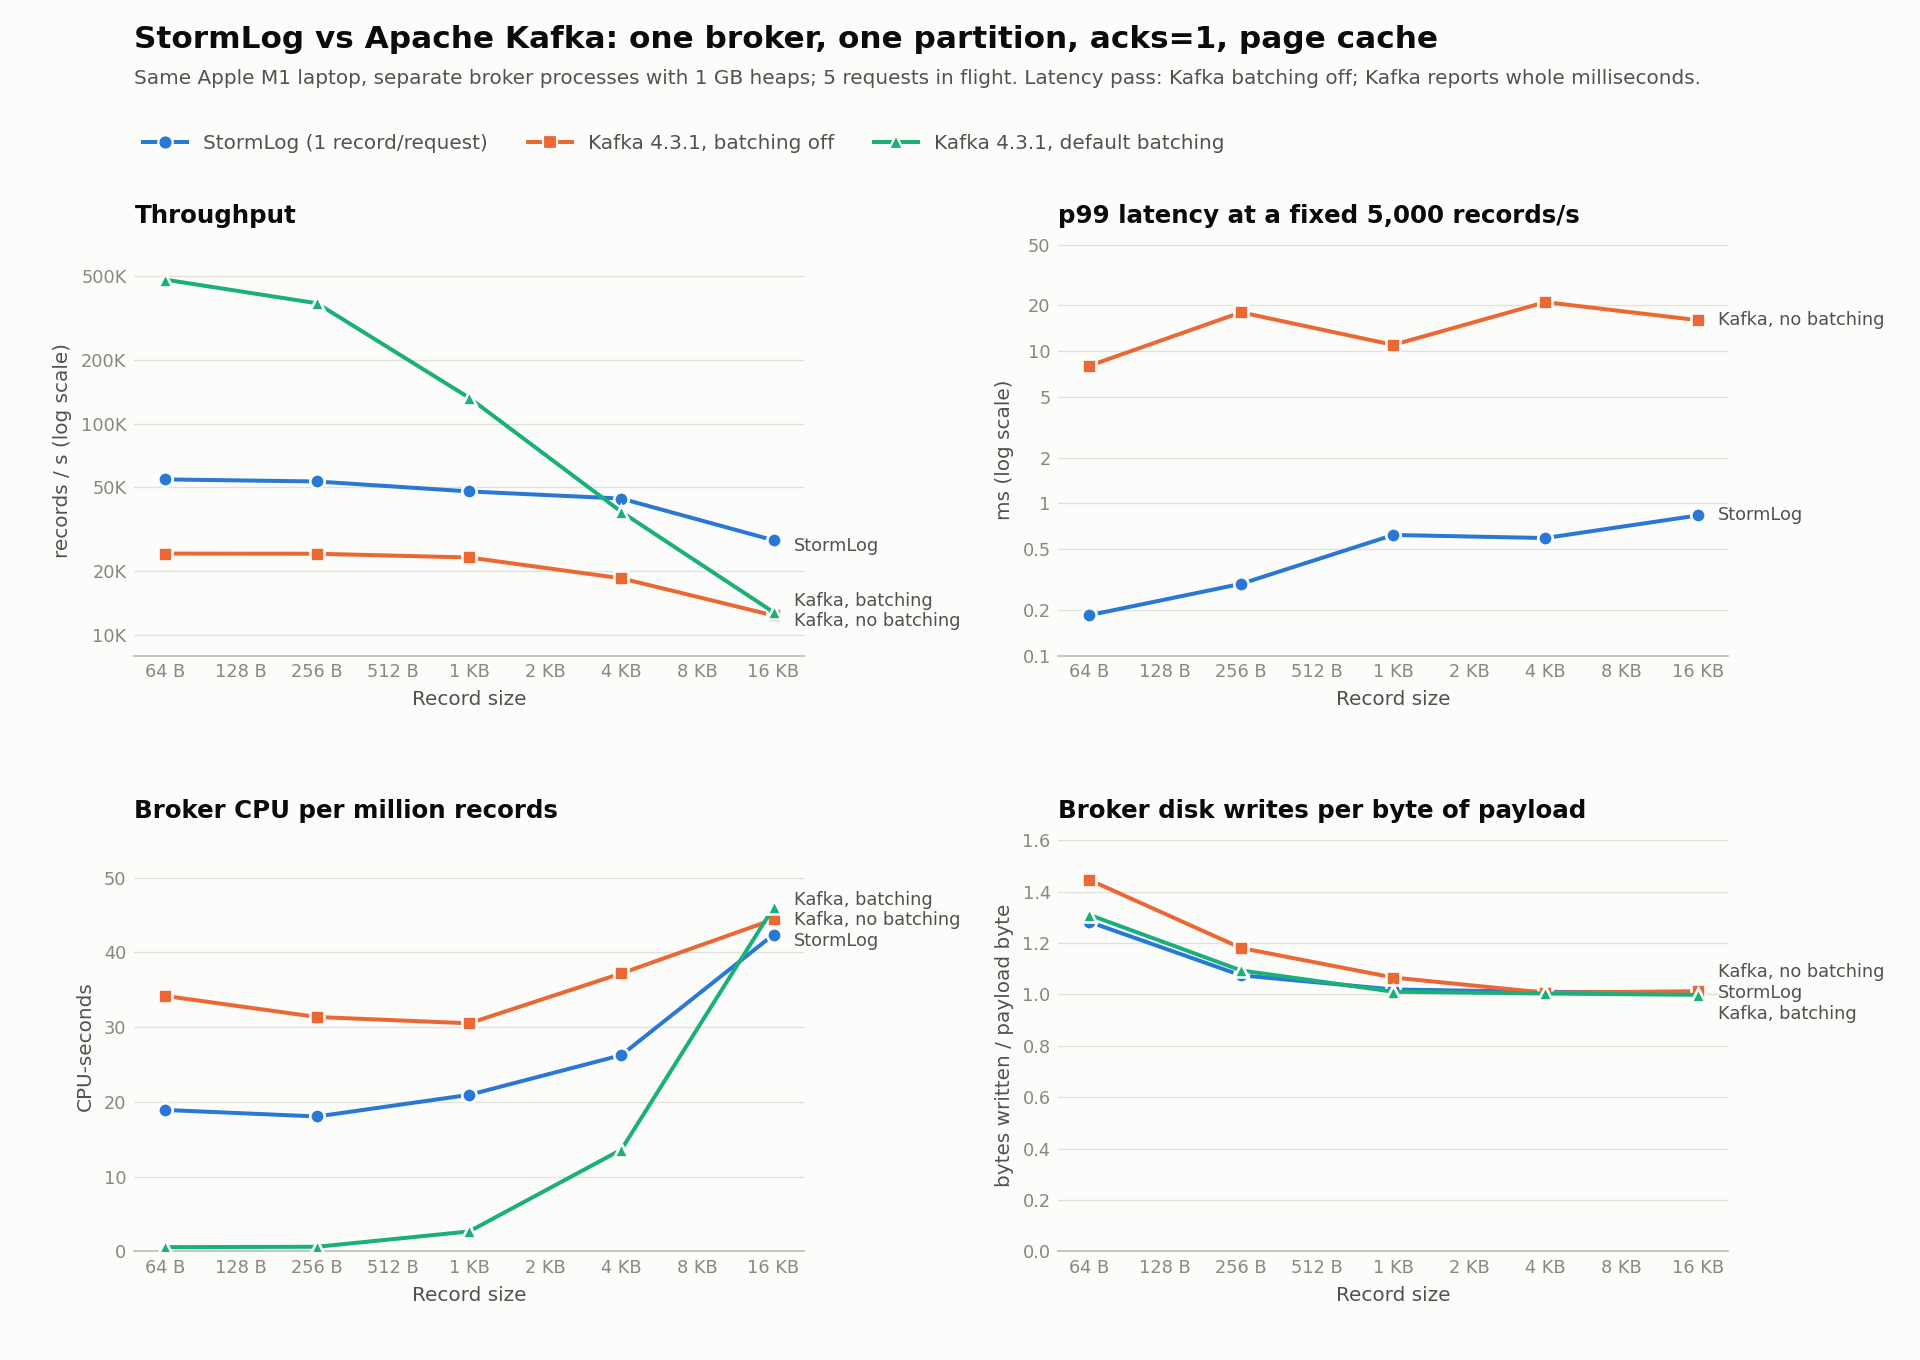
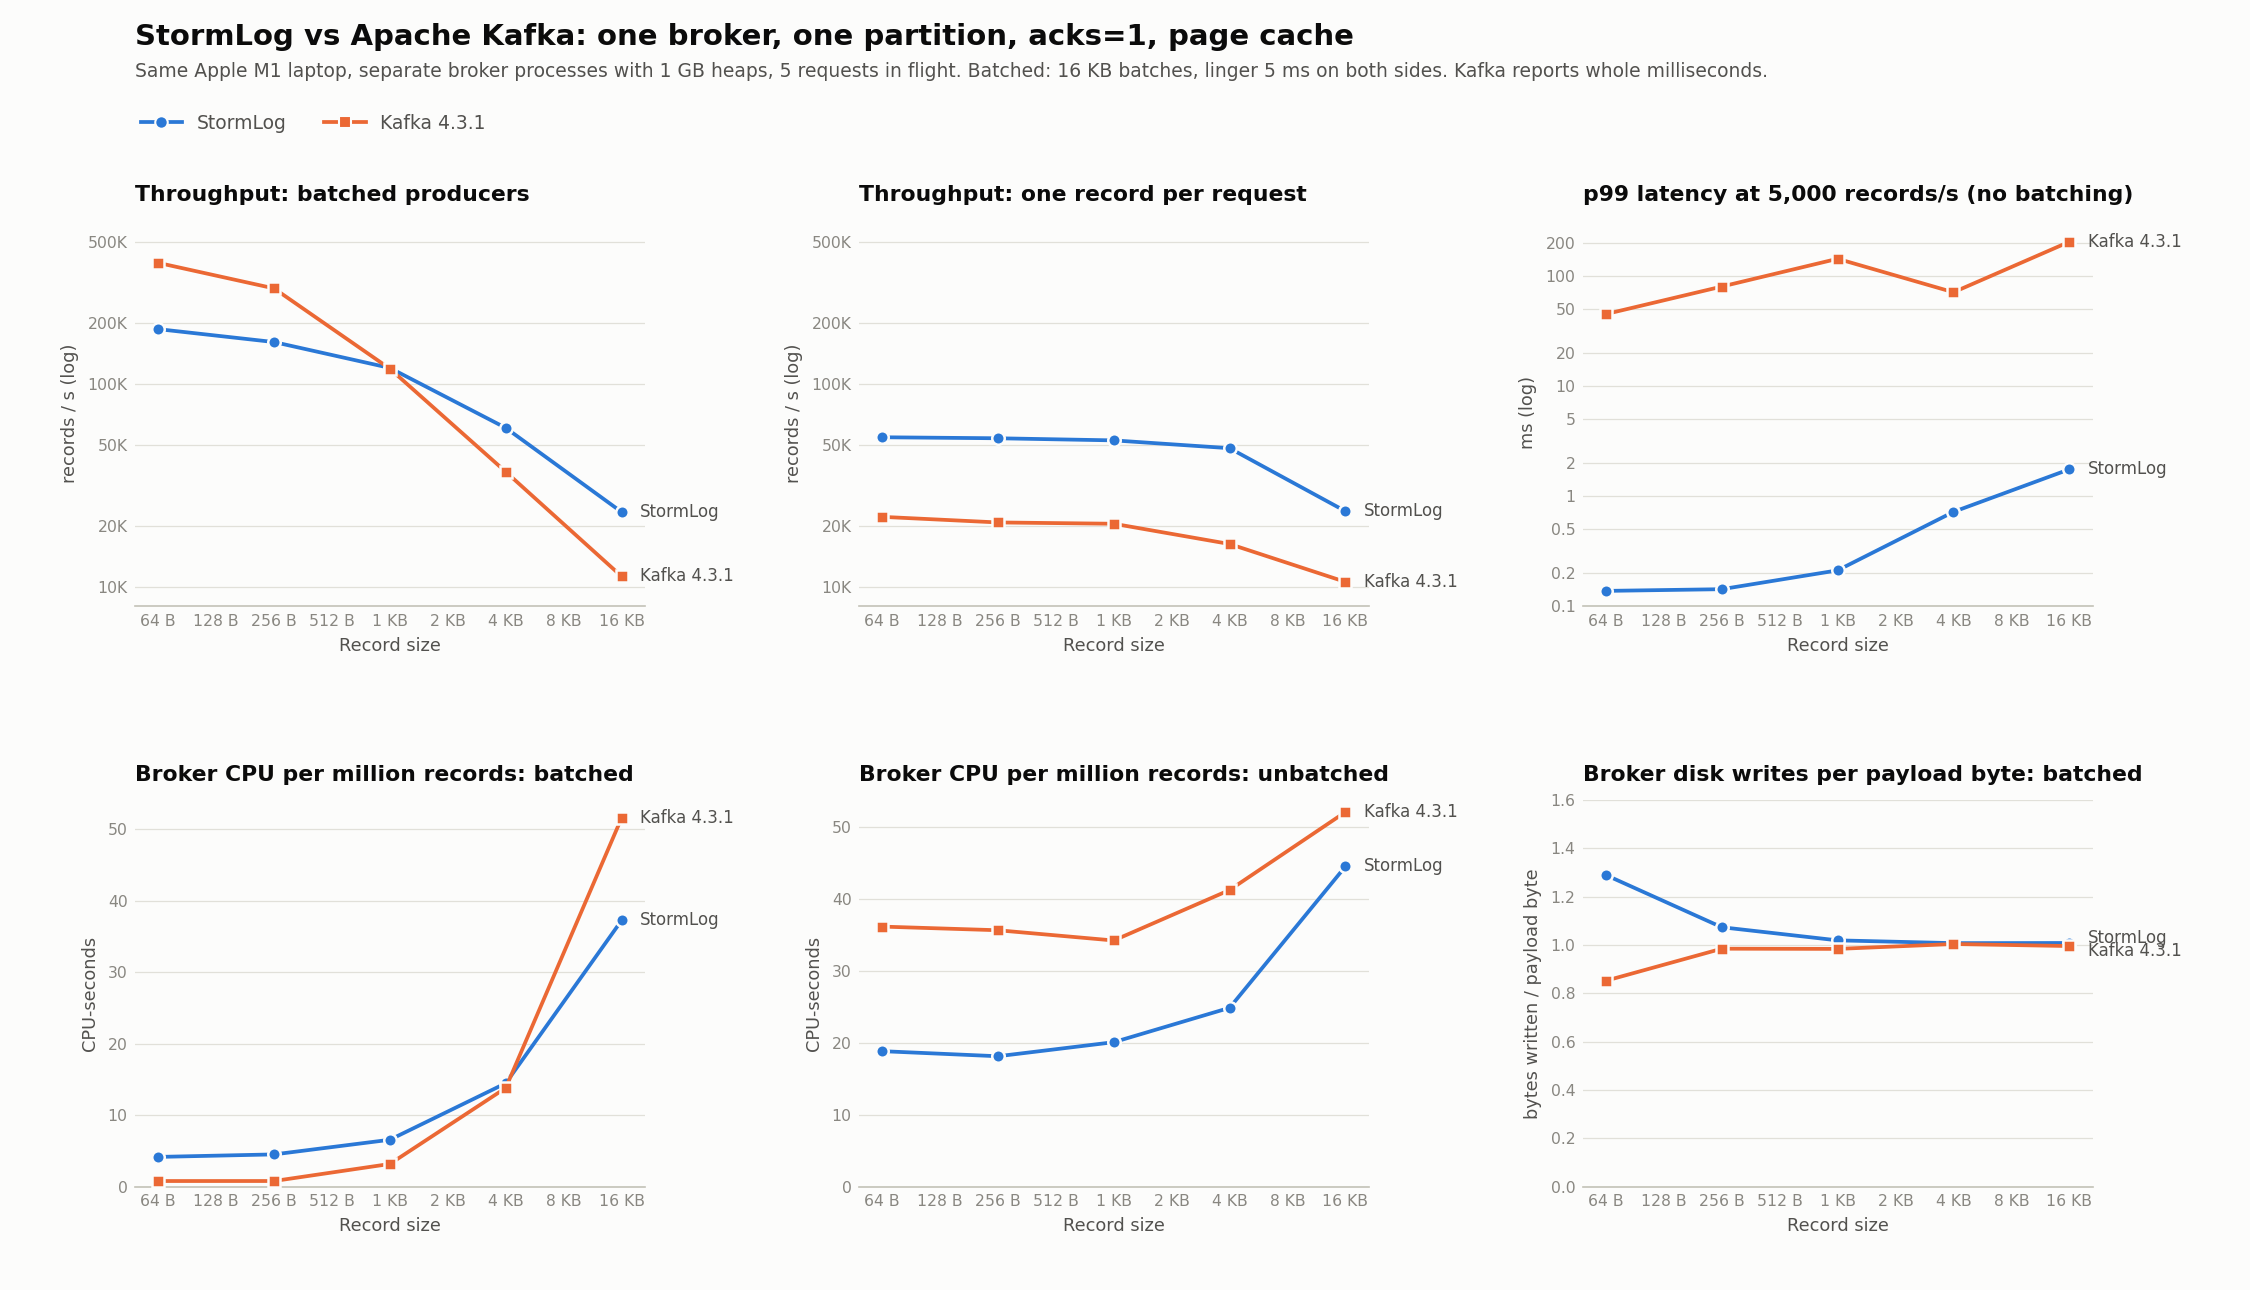
9s broker session timeout; leader-aware perf tool; benchmarks with batching
- Broker session timeout 9s (Kafka's broker.session.timeout.ms default):
  3s fenced healthy brokers when heartbeats failed during a metadata
  leader election at startup (found by the replication benchmark, where
  every request then hit NOT_LEADER). Tests keep 3s via a property.
- StormLogPerf connects to the partition leader from metadata;
  bench-replication fails the run if any request errors.
- Remove duplicate dependency declarations from the pom.

Results (docs/bench, README):
- Batched vs batched against Kafka 4.3.1: Kafka 2.1x at 64 B (was 9x
  before batching), even at 1 KB, StormLog 1.6-2.1x at 4-16 KB.
- RF=3 acks=all: 4.4K rec/s one record per request, 20.1K rec/s with the
  batching producer; p99 2.3 ms below saturation.
Chart restructured into per-scenario panels (two systems per panel).
Decision log: batching and producer-state replication.

diff --git a/src/main/java/com/simplekafka/cli/StormLogPerf.java b/src/main/java/com/simplekafka/cli/StormLogPerf.java
@@ -43,7 +43,20 @@ public class StormLogPerf {
             runBatched(hostPort[0], Integer.parseInt(hostPort[1]), topic, records, recordSize, inFlight, intervalNanos, acks);
             System.exit(0);
         }
-        try (BrokerConnection conn = BrokerConnection.connect(hostPort[0], Integer.parseInt(hostPort[1]))) {
+        // Connect to the partition's current leader (not necessarily the bootstrap broker)
+        String leaderHost = hostPort[0];
+        int leaderPort = Integer.parseInt(hostPort[1]);
+        try (com.simplekafka.client.SimpleKafkaClient meta =
+                     new com.simplekafka.client.SimpleKafkaClient(hostPort[0], Integer.parseInt(hostPort[1]), "perf")) {
+            meta.initialize();
+            for (com.simplekafka.client.SimpleKafkaClient.PartitionLayout p : meta.topicLayouts().getOrDefault(topic, java.util.List.of())) {
+                if (p.partition() == 0 && meta.getBrokers().containsKey(p.leader())) {
+                    leaderHost = meta.getBrokers().get(p.leader()).getHost();
+                    leaderPort = meta.getBrokers().get(p.leader()).getPort();
+                }
+            }
+        }
+        try (BrokerConnection conn = BrokerConnection.connect(leaderHost, leaderPort)) {
             long producerId = KafkaFrame.NO_PRODUCER_ID;
             if (idempotent) {
                 ByteArrayOutputStream b = new ByteArrayOutputStream();

diff --git a/src/main/java/com/simplekafka/metadata/MetadataQuorum.java b/src/main/java/com/simplekafka/metadata/MetadataQuorum.java
@@ -38,7 +38,12 @@ public class MetadataQuorum implements AutoCloseable {
 
     public static final RaftGroupId GROUP_ID =
             RaftGroupId.valueOf(UUID.nameUUIDFromBytes("stormlog-metadata".getBytes(StandardCharsets.UTF_8)));
-    public static final long DEFAULT_SESSION_TIMEOUT_MS = 3_000;
+    /**
+     * Brokers silent for longer than this are unregistered. 9 s is Kafka's default
+     * (broker.session.timeout.ms): long enough to ride out a metadata leader election, during
+     * which heartbeats fail; 3 s fenced healthy brokers at startup.
+     */
+    public static final long DEFAULT_SESSION_TIMEOUT_MS = Long.getLong("stormlog.session.timeout.ms", 9_000);
     private static final long HEARTBEAT_INTERVAL_MS = 500;
     /** A learner within this many entries of the leader's commit index counts as caught up. */
     private static final long CATCH_UP_SLACK = 5;

diff --git a/scripts/plot_vs_kafka.py b/scripts/plot_vs_kafka.py
@@ -109,9 +109,11 @@ def main(csv_path, out_path):
 
     ax = axes[0][2]
     style(ax, f"p99 latency at {rate:,} records/s (no batching)", "ms (log)", log_y=True)
-    ax.yaxis.set_major_locator(FixedLocator([0.1, 0.2, 0.5, 1, 2, 5, 10, 20, 50]))
+    p99_max = max(float(r["p99_ms"]) for (_, mode), data in rows.items() if mode == fixed for r in data.values())
+    ax.yaxis.set_major_locator(FixedLocator([v for v in (0.1, 0.2, 0.5, 1, 2, 5, 10, 20, 50, 100, 200, 500, 1000)
+                                             if v <= p99_max * 2]))
     ax.yaxis.set_major_formatter(FuncFormatter(lambda v, _: f"{v:g}"))
-    ax.set_ylim(0.1, 50)
+    ax.set_ylim(0.1, p99_max * 1.6)  # fit the data: tails vary run to run
     series(ax, rows, fixed, lambda r, s: max(float(r["p99_ms"]), 0.01))
 
     ax = axes[1][0]

diff --git a/README.md b/README.md
@@ -81,24 +81,25 @@ The fsync numbers are true-to-disk: on macOS, Java's `force()` takes as long as
 
 ### Cost of replication (3 brokers)
 
-Three broker JVMs on one machine (loopback), one partition, 1 KB records, one producer
-connection with 5 requests in flight. Produced by
-[`scripts/bench-replication.sh`](scripts/bench-replication.sh); raw data in
-[`docs/bench/replication.csv`](docs/bench/replication.csv).
+Three broker JVMs on one machine (loopback), one partition, 1 KB records, 5 requests in flight.
+Produced by [`scripts/bench-replication.sh`](scripts/bench-replication.sh) (it fails the run if any
+request errors); raw data in [`docs/bench/replication.csv`](docs/bench/replication.csv).
 
 | Configuration | Max throughput | p50 / p99 at 5,000 records/s |
 |---|---|---|
-| RF=1, `acks=1` | 40.2K rec/s | 0.08 / 0.89 ms |
-| RF=3, `acks=1` | 16.6K rec/s | 0.10 / 1.11 ms |
-| RF=3, `acks=all` | 5.7K rec/s | 0.38 / 2.39 ms |
+| RF=1, `acks=1` | 45.0K rec/s | 0.08 / 0.78 ms |
+| RF=3, `acks=1` | 15.7K rec/s | 0.18 / 1.79 ms |
+| RF=3, `acks=all` | 4.4K rec/s | 0.80 / 2.26 ms |
+| RF=3, `acks=all`, batching producer | 20.1K rec/s | 2.63 / 12.81 ms |
 
-- With RF=3, followers keep up (the ISR never shrank during the run), and the three JVMs share
-  the laptop's 8 cores while the leader also serves replica fetches.
-- `acks=all` on one connection is bounded by one replication round trip per request, because the
-  broker processes a connection's requests in order. Kafka does the same (its network layer
-  mutes a connection until the response is sent) and gets throughput from batching many records
-  into each request, which StormLog's client doesn't do yet.
-- Below saturation, an `acks=all` write is on all three replicas with p99 ≈ 2.4 ms.
+- Followers keep up throughout (no ISR changes during the run); three JVMs share 8 cores, and
+  the leader also serves replica fetches, hence RF=3 `acks=1` below RF=1.
+- One record per request, `acks=all` is bounded by one replication round trip per request: the
+  broker processes a connection's requests in order (so does Kafka, which mutes a connection
+  until it responds). Batching amortizes that round trip: **4.6×** more `acks=all` throughput.
+- Latency at saturation with the batching producer is dominated by time queued in its 32 MB send
+  buffer (as with Kafka's producer); below saturation, one-record `acks=all` writes are on all
+  three replicas with p99 ≈ 2.3 ms.
 
 ### Against Apache Kafka 4.3.1
 
@@ -107,51 +108,52 @@ connection with 5 requests in flight. Produced by
 Same Apple M1 laptop, one broker process each (1 GB heap), one partition, `acks=1`, page-cache
 durability (both systems' default), 5 requests in flight, loopback networking. Produced by
 [`scripts/bench-vs-kafka.sh`](scripts/bench-vs-kafka.sh); raw data in
-[`docs/bench/vs-kafka.csv`](docs/bench/vs-kafka.csv).
+[`docs/bench/vs-kafka.csv`](docs/bench/vs-kafka.csv). Three scenarios, each defined by its
+configuration:
 
-Three scenarios, each with the configuration that defines it:
+**1. Batched producers, the configuration people actually run (both: 16 KB batches, linger 5 ms).**
+From 1 KB up, StormLog matches or beats Kafka; for tiny records Kafka is about
+2.1× faster and uses
+5× less broker CPU per record (its record-batch format is
+stored and served as a unit; StormLog appends and indexes every record individually).
 
-**1. Large records (≥ 4 KB): StormLog matches or beats Kafka on bandwidth.**
-Kafka with default producer batching (`linger.ms=5`, `batch.size=16384`) against StormLog (one
-record per request). At this size a batch holds one or two records, so batching stops helping and
-per-request storage overhead decides.
+| Record size | StormLog | Kafka | Ratio | StormLog MB/s | Kafka MB/s |
+|---|---|---|---|---|---|
+| 64 B | 187K rec/s | 396K rec/s | Kafka 2.1× | 11 | 24 |
+| 256 B | 161K rec/s | 296K rec/s | Kafka 1.8× | 39 | 72 |
+| 1 KB | 120K rec/s | 119K rec/s | even | 117 | 116 |
+| 4 KB | 61K rec/s | 37K rec/s | StormLog 1.6× | 237 | 144 |
+| 16 KB | 23K rec/s | 11K rec/s | StormLog 2.1× | 365 | 176 |
 
-| Record size | StormLog | Kafka (batched) |
+**2. One record per request (Kafka: `batch.size=0`, `linger.ms=0`).** StormLog does about
+2.5× Kafka's record rate: less work per request (no record-batch format, CRC
+or batch headers). No production Kafka deployment runs unbatched, so this measures per-request
+path cost, not typical Kafka performance.
+
+| Record size | StormLog | Kafka |
 |---|---|---|
-| 4 KB | 173 MB/s | 149 MB/s |
-| 16 KB | 439 MB/s | 200 MB/s |
+| 64 B | 55K rec/s | 22K rec/s |
+| 256 B | 54K rec/s | 21K rec/s |
+| 1 KB | 53K rec/s | 20K rec/s |
+| 4 KB | 48K rec/s | 16K rec/s |
+| 16 KB | 24K rec/s | 11K rec/s |
 
-**2. Small records with batching: Kafka is about 9× faster, because StormLog's client doesn't batch.**
-Same configurations as scenario 1. Kafka's producer packs hundreds of small records into one
-request; StormLog's sends one record per request. This is the client's biggest gap.
+**3. Minimum latency (no batching on either side, a fixed 5,000 records/s for 60 s per size).**
+Latency is measured by each client from send to acknowledgment; Kafka's tool reports whole
+milliseconds. Kafka's tail varies a lot between runs on this laptop: p99 was 8–21 ms in the
+previous run and 45–204 ms in this one; StormLog's stayed sub-millisecond up to 4 KB in both.
 
-| Record size | StormLog | Kafka (batched) |
+| Record size | StormLog p50 / p99 | Kafka p50 / p99 |
 |---|---|---|
-| 64 B | 54K rec/s | 479K rec/s |
-| 256 B | 53K rec/s | 370K rec/s |
-| 1 KB | 48K rec/s | 132K rec/s |
+| 64 B | 0.07 / 0.14 ms | 1 / 45 ms |
+| 256 B | 0.07 / 0.14 ms | 1 / 80 ms |
+| 1 KB | 0.07 / 0.21 ms | 1 / 143 ms |
+| 4 KB | 0.08 / 0.72 ms | 1 / 71 ms |
+| 16 KB | 0.09 / 1.75 ms | 0 / 204 ms |
 
-**3. Minimum-latency configuration (no batching on either side): StormLog has sub-millisecond p99.**
-Kafka with `batch.size=0`, `linger.ms=0`; both at a fixed 5,000 records/s for 60 s per size, so
-neither is saturated and producer startup is under 1% of samples. Latency is measured by each
-client from send to acknowledgment; Kafka's tool reports whole milliseconds. No production
-Kafka deployment runs unbatched, so this shows per-request path cost, not typical Kafka latency.
-
-| Record size | StormLog p50 / p99 | Kafka, batching off, p50 / p99 |
-|---|---|---|
-| 64 B | 0.07 / 0.18 ms | 1 / 8 ms |
-| 256 B | 0.07 / 0.30 ms | 1 / 18 ms |
-| 1 KB | 0.07 / 0.62 ms | 1 / 11 ms |
-| 4 KB | 0.08 / 0.59 ms | 1 / 21 ms |
-| 16 KB | 0.06 / 0.83 ms | 0 / 16 ms |
-
-At maximum rate with batching off on both sides, StormLog also does about
-2.2× Kafka's record rate (it does less per request: no record-batch format, CRC or batch
-headers).
-
-Disk writes per payload byte are the same for both (about 1.0 at ≥ 1 KB). Caveats: one
-machine, loopback, macOS; Kafka is tuned for Linux and real networks. Both run without
-replication in this comparison.
+Disk writes per payload byte are about the same (≈ 1.0 at ≥ 256 B; at 64 B StormLog's per-record
+index entry shows). Caveats: one machine, loopback, macOS; Kafka is tuned for Linux and real
+networks; both run without replication in this comparison.
 
 ## What's different from Kafka
 

diff --git a/docs/decisions.md b/docs/decisions.md
@@ -149,6 +149,22 @@ Topic and group names are chosen by clients, so per-label series are unbounded i
 monitoring system. Each labeled family is capped and overflows into `__other__`; per-partition
 detail is served on demand from `/admin/lag` instead of being scraped continuously.
 
+### 21b. Client-side batching with range-based idempotence
+Kafka's 9x lead on small records was entirely its producer's batching. `PRODUCE_BATCH` appends a
+batch contiguously under one lock with one group commit; idempotence generalizes from single
+sequences to sequence ranges (a single record is a batch of one), so a retried batch is
+deduplicated as a unit. The producer follows Kafka's accumulator design: full batches close into a
+ready queue and `send()` blocks above a 32 MB buffer. The first version let an open batch grow
+while the sender waited, which produced frames over the 16 MB limit under load.
+
+### 21c. Replicating producer state instead of rebuilding it from the log
+Kafka rebuilds idempotent producer state on a new leader from producer IDs stored in record
+batches. StormLog's log format has no producer IDs, so the leader ships its producer states with
+each replica fetch instead. The invariant that makes this safe: the snapshot and the log end are
+captured together under the idempotence lock, only records below that log end are sent, followers
+adopt an entry only once their log covers it, and truncation drops entries for removed records.
+Without it, an idempotent producer lost 2,899 of 3,000 sends across a leader crash.
+
 ### 22. Benchmarks only through the broker's real path
 Early numbers (~220K op/s) measured `WriteAheadLog`, which the broker never ran; the broker was
 doing ~120 op/s. Published numbers now come from `BrokerBenchmark` (real Netty connections
